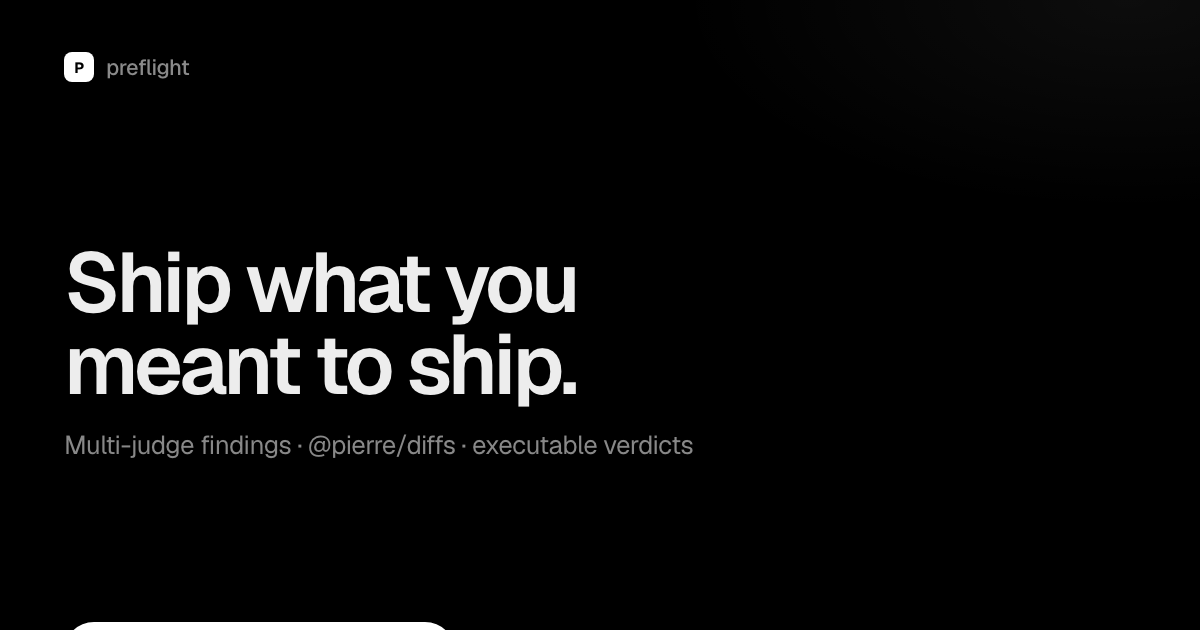
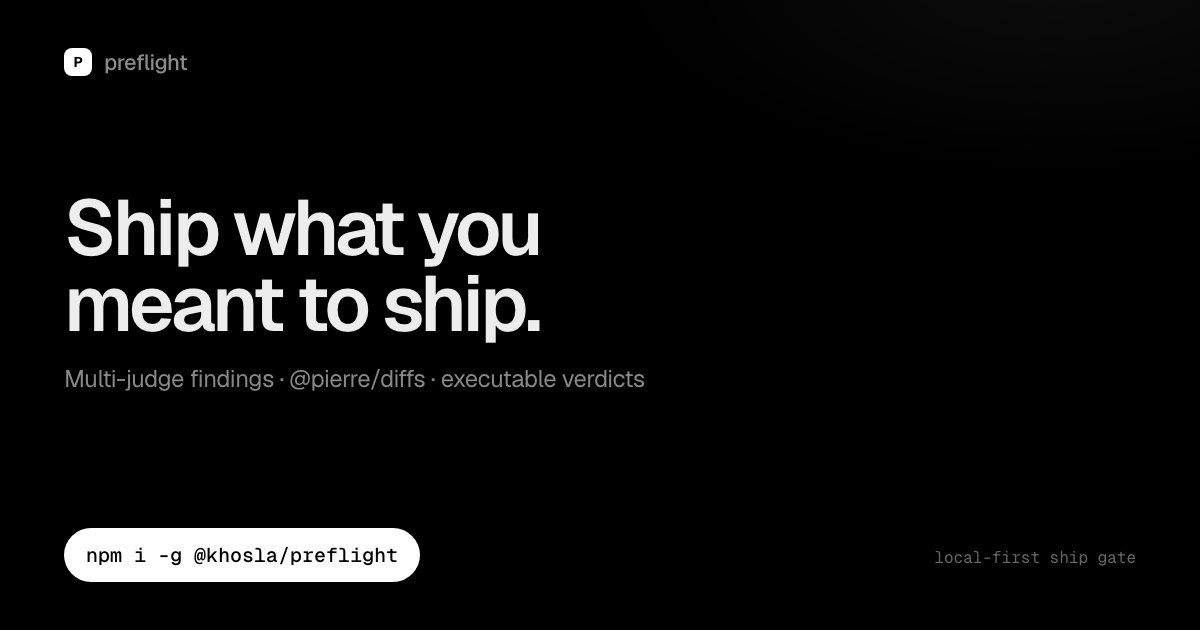
fix OG crop so install chip is fully visible

diff --git a/docs/og.html b/docs/og.html
@@ -5,56 +5,62 @@
 <title>og</title>
 <link rel="stylesheet" href="fonts.css"/>
 <style>
-  html, body { margin: 0; width: 1200px; height: 630px; overflow: hidden; background: #000; }
+  * { box-sizing: border-box; }
+  html, body {
+    margin: 0; padding: 0; width: 1200px; height: 630px; overflow: hidden; background: #000;
+  }
   body {
     font-family: "Geist", ui-sans-serif, system-ui, sans-serif;
     color: #ededed; -webkit-font-smoothing: antialiased;
   }
   .frame {
+    position: relative;
     width: 1200px; height: 630px;
-    padding: 52px 64px 48px;
+    padding: 48px 64px;
     background:
-      radial-gradient(900px 420px at 85% 0%, rgba(255,255,255,.05), transparent 50%),
+      radial-gradient(800px 380px at 88% -5%, rgba(255,255,255,.05), transparent 55%),
       #000;
-    display: grid;
-    grid-template-rows: auto 1fr auto;
-    gap: 28px;
   }
-  .top { display: flex; align-items: center; gap: 12px; color: #8a8a8a; font-size: 22px; font-weight: 500; letter-spacing: -0.02em; }
+  .top {
+    position: absolute; top: 48px; left: 64px;
+    display: flex; align-items: center; gap: 12px;
+    color: #8a8a8a; font-size: 22px; font-weight: 500; letter-spacing: -0.02em;
+  }
   .dot {
-    width: 30px; height: 30px; border-radius: 8px; background: #fff; color: #000;
-    display: grid; place-items: center; font-weight: 700; font-size: 15px;
+    width: 28px; height: 28px; border-radius: 8px; background: #fff; color: #000;
+    display: grid; place-items: center; font-weight: 700; font-size: 14px;
   }
-  .mid { display: flex; flex-direction: column; justify-content: center; min-height: 0; }
+  .copy {
+    position: absolute; left: 64px; top: 190px; right: 64px;
+  }
   h1 {
-    margin: 0; font-size: 84px; line-height: 0.98; letter-spacing: -0.05em; font-weight: 600;
+    margin: 0; font-size: 78px; line-height: 0.98; letter-spacing: -0.05em; font-weight: 600;
   }
   .sub {
-    margin-top: 22px; color: #888; font-size: 26px; letter-spacing: -0.02em; max-width: 920px;
+    margin-top: 20px; color: #888; font-size: 24px; letter-spacing: -0.02em;
   }
-  .bottom { display: flex; align-items: center; justify-content: space-between; gap: 20px; }
   .chip {
+    position: absolute; left: 64px; bottom: 48px;
     font-family: "Geist Mono", ui-monospace, monospace;
-    font-size: 22px; font-weight: 500;
+    font-size: 20px; font-weight: 500;
     background: #fff; color: #000;
-    border-radius: 999px; padding: 16px 24px;
+    border-radius: 999px; padding: 14px 22px;
   }
   .meta {
-    color: #666; font-family: "Geist Mono", ui-monospace, monospace; font-size: 18px;
+    position: absolute; right: 64px; bottom: 62px;
+    color: #666; font-family: "Geist Mono", ui-monospace, monospace; font-size: 16px;
   }
 </style>
 </head>
 <body>
   <div class="frame">
     <div class="top"><div class="dot">P</div> preflight</div>
-    <div class="mid">
+    <div class="copy">
       <h1>Ship what you<br/>meant to ship.</h1>
       <div class="sub">Multi-judge findings · @pierre/diffs · executable verdicts</div>
     </div>
-    <div class="bottom">
-      <div class="chip">npm i -g @khosla/preflight</div>
-      <div class="meta">local-first ship gate</div>
-    </div>
+    <div class="chip">npm i -g @khosla/preflight</div>
+    <div class="meta">local-first ship gate</div>
   </div>
 </body>
 </html>
